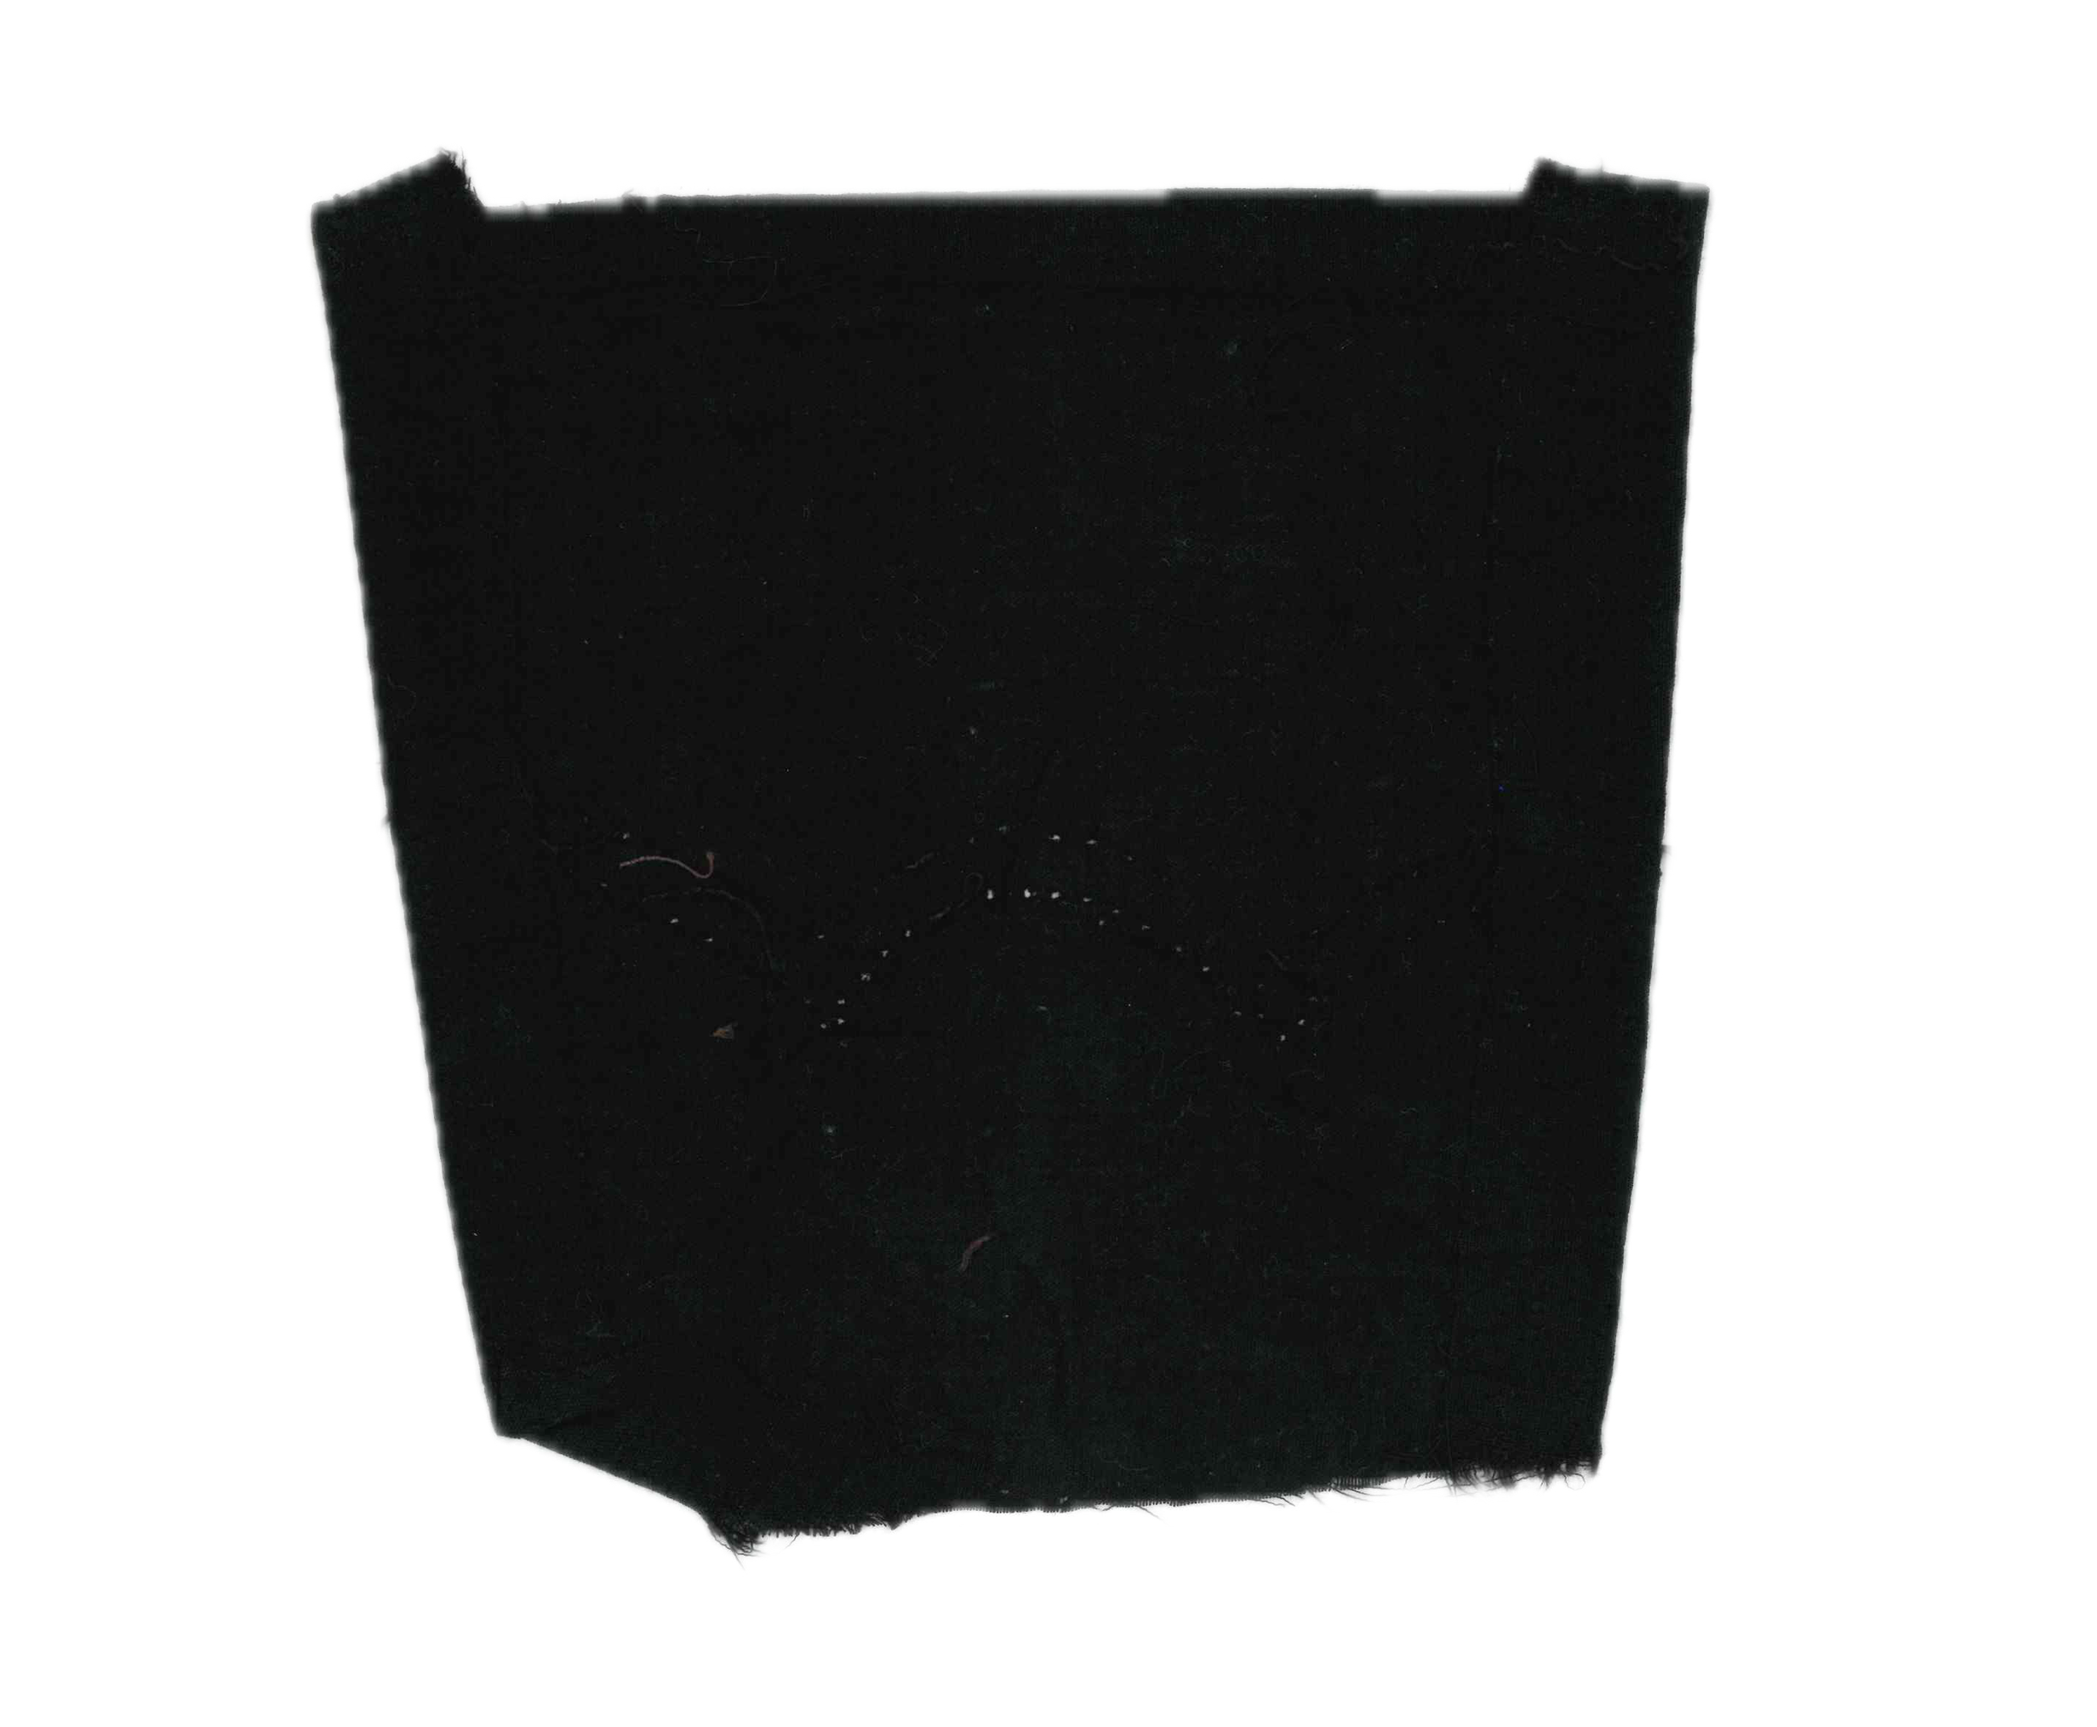
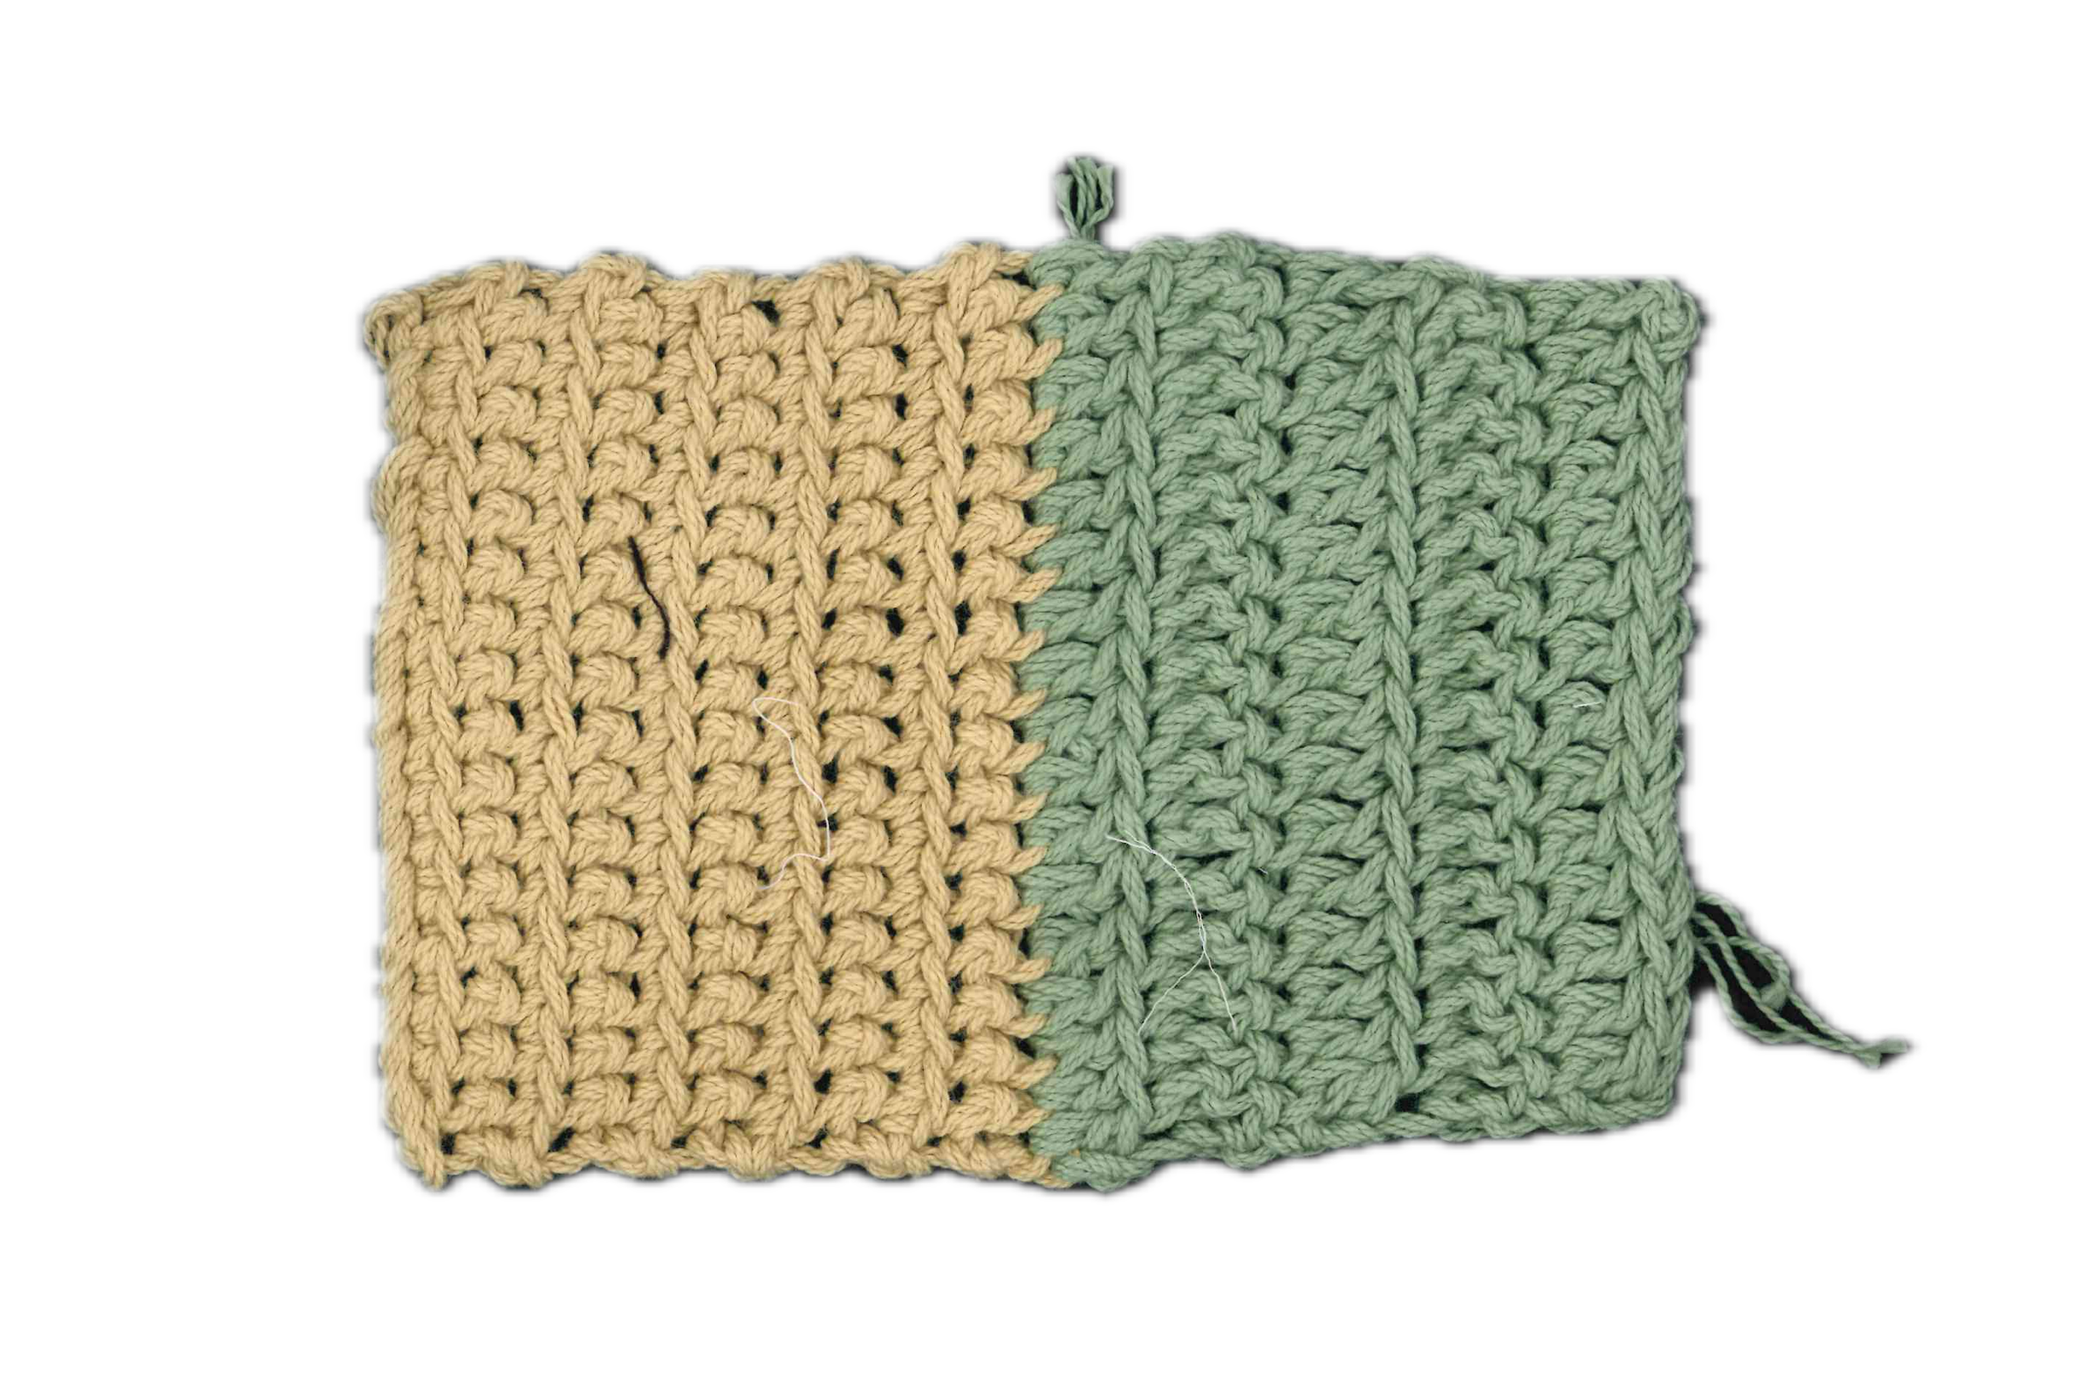
commit all changes

diff --git a/archive-27.html b/archive-27.html
@@ -43,15 +43,18 @@
 
         .magnifier {
             position: absolute;
-            width: 160px;
-            height: 160px;
+            width: 220px;
+            height: 220px;
             border-radius: 50%;
             border: 2px solid rgba(0, 0, 0, 0.25);
             box-shadow: 0 4px 20px rgba(0, 0, 0, 0.2);
             pointer-events: none;
             display: none;
+            overflow: hidden;
+            background-color: #fff;
             background-repeat: no-repeat;
             z-index: 100;
+            transform: translate(-50%, -50%);
         }
     </style>
 
@@ -105,8 +108,8 @@
         <div class="center-column">
             <div class="scrap">
                 <div class="magnify-wrapper">
-                    <!-- <img src="scrap-images/scrap-33.JPG" alt="Scrap Image">
-                    <div class="magnifier" id="magnifier"></div> -->
+                     <img class="scrap-img-1" src="scrap-images/scrap-53.png" alt="Scrap Image">
+                    <div class="magnifier" id="magnifier"></div>
                 </div>
             </div>
         </div>
@@ -149,7 +152,7 @@
         const magnifyWrapper = document.querySelector('.magnify-wrapper');
         const images = document.querySelectorAll('.magnify-wrapper img');
         const zoom = 2.5;
-        const mSize = 160;
+        const mSize = 220;
 
         if (magnifier && magnifyWrapper && images.length) {
             images.forEach(img => {

diff --git a/archive-17.html b/archive-17.html
@@ -42,16 +42,19 @@
         }
 
         .magnifier {
-            position: absolute;
-            width: 160px;
-            height: 160px;
+             position: absolute;
+            width: 220px;
+            height: 220px;
             border-radius: 50%;
             border: 2px solid rgba(0, 0, 0, 0.25);
             box-shadow: 0 4px 20px rgba(0, 0, 0, 0.2);
             pointer-events: none;
             display: none;
+            overflow: hidden;
+            background-color: #fff;
             background-repeat: no-repeat;
             z-index: 100;
+            transform: translate(-50%, -50%);
         }
     </style>
 
@@ -149,7 +152,7 @@
         const magnifyWrapper = document.querySelector('.magnify-wrapper');
         const images = document.querySelectorAll('.magnify-wrapper img');
         const zoom = 2.5;
-        const mSize = 160;
+        const mSize = 220;
 
         if (magnifier && magnifyWrapper && images.length) {
             images.forEach(img => {

diff --git a/archive-13.html b/archive-13.html
@@ -98,7 +98,8 @@
         <div class="center-column">
             <div class="scrap">
                 <div class="magnify-wrapper">
-                    <img class="scrap-img-3" src="scrap-images/scrap-12.JPG" alt="Scrap Image">
+                    <img class="scrap-img-5" src="scrap-images/scrap-55.JPG" alt="Scrap Image">
+                     <img class="scrap-img-5" src="scrap-images/scrap-54.JPG" alt="Scrap Image">
                     <div class="magnifier" id="magnifier"></div>
                 </div>
 
